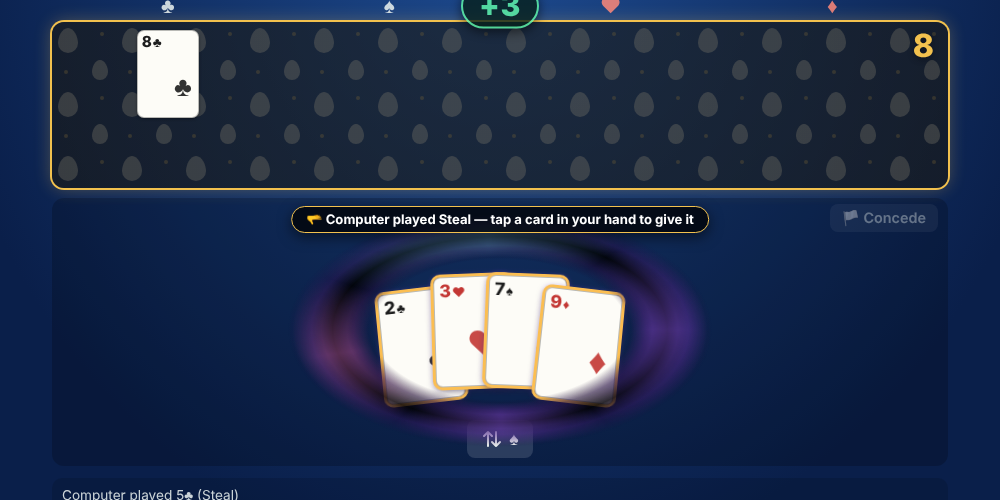
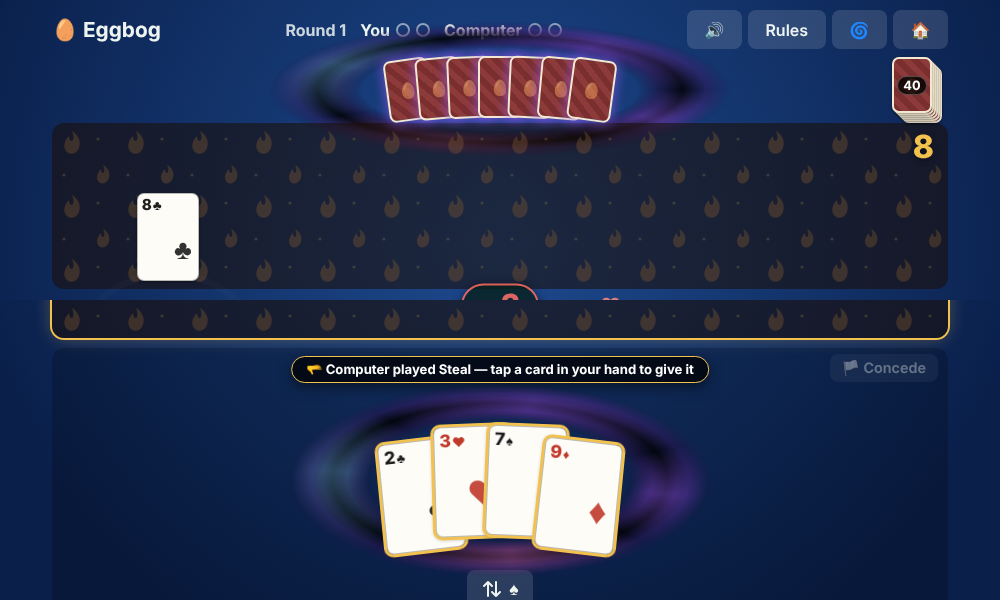
Card drop pitched in 3 steps by rank; Steal black hole behind the cards, quieter
- Drop the extra note; the landing thud itself is pitched: A-4 lower,
  5-7 as before, 8-K higher.
- The black hole now sits in the hand's panel under the cards, and its
  warp sound is half as loud.

Claude-Session: https://claude.ai/code/session_01RZQVcp2qjBMmu2NDpK7G8g

diff --git a/eggbog.html b/eggbog.html
@@ -557,16 +557,16 @@ button,summary,.clk{touch-action:manipulation}
 }
 
 /* Steal's black hole: a dark swirling ring around the hand that has to give a card (the cards stay visible in its eye) */
-#bhole{position:fixed;z-index:4;pointer-events:none;border-radius:50%}
+#bhole{position:absolute;z-index:0;pointer-events:none;border-radius:50%}   /* inside the hand's panel, under its cards */
 #bhole>i,#bhole b i{position:absolute;inset:0;border-radius:50%}
 #bhole b{position:absolute;left:0;top:50%;width:100%;aspect-ratio:1;translate:0 -50%;transform:scaleY(var(--sy,1))}   /* a circle squashed into the oval, so the swirl can spin inside it */
 #bhole>i{background:radial-gradient(closest-side,#0000 60%,#1a083099 69%,#000000d9 79%,#2a0d4a77 89%,#0000 100%)}
 #bhole b i{background:conic-gradient(from 0deg,#0000,#9b5cff66,#0000 18%,#ff7ad955 30%,#0000 42%,#7ac8ff55 58%,#0000 70%,#9b5cff66 84%,#0000);
   -webkit-mask:radial-gradient(closest-side,#0000 62%,#000 72%,#000 84%,#0000 98%);mask:radial-gradient(closest-side,#0000 62%,#000 72%,#000 84%,#0000 98%);animation:bhspin 2.2s linear infinite;filter:blur(1.5px)}
 @keyframes bhspin{to{transform:rotate(360deg)}}
-@keyframes warpwob{0%,100%{filter:none}50%{filter:drop-shadow(0 0 6px #9b5cffaa) hue-rotate(-12deg)}}
-.card.warping,.oc.warping{animation:warpwob 1.4s ease-in-out infinite}
-@media (prefers-reduced-motion:reduce){#bhole b i,.card.warping,.oc.warping{animation:none}}
+@keyframes warpwob{0%,100%{box-shadow:0 1px 3px #0006}50%{box-shadow:0 0 12px 2px #9b5cffaa}}
+body.bh-me #hand .card,body.bh-opp #oppHand .oc{animation:warpwob 1.4s ease-in-out infinite;z-index:5}   /* the cards sit in front of the black hole's ring */
+@media (prefers-reduced-motion:reduce){#bhole b i,body.bh-me #hand .card,body.bh-opp #oppHand .oc{animation:none}}
 </style>
 </head>
 <body>
@@ -2286,7 +2286,7 @@ function warpLoop(on){
   if(!on||!soundOn){if(warpSnd){const w=warpSnd;warpSnd=null;try{const t=audioCtx.currentTime;w.g.gain.cancelScheduledValues(t);w.g.gain.setValueAtTime(w.g.gain.value,t);w.g.gain.exponentialRampToValueAtTime(.0001,t+.35);w.nodes.forEach(n=>n.stop(t+.4));}catch(e){}}return;}
   if(warpSnd)return;
   try{audioCtx=audioCtx||new (window.AudioContext||window.webkitAudioContext)();if(audioCtx.state==='suspended')audioCtx.resume();
-    const t=audioCtx.currentTime,g=audioCtx.createGain();g.gain.setValueAtTime(.0001,t);g.gain.exponentialRampToValueAtTime(.09,t+.5);g.connect(audioCtx.destination);
+    const t=audioCtx.currentTime,g=audioCtx.createGain();g.gain.setValueAtTime(.0001,t);g.gain.exponentialRampToValueAtTime(.045,t+.5);g.connect(audioCtx.destination);
     // a low hum that bends up and down, plus a breathy whoosh that sweeps, both wobbling on slow LFOs
     const o=audioCtx.createOscillator(),o2=audioCtx.createOscillator(),lfo=audioCtx.createOscillator(),lg=audioCtx.createGain();
     o.type='sawtooth';o.frequency.value=70;o2.type='sine';o2.frequency.value=141;lfo.frequency.value=.9;lg.gain.value=22;
@@ -2303,19 +2303,23 @@ function warpLoop(on){
 function blackHole(sel){
   let b=$('bhole');
   if(!sel){if(b&&!b.dataset.out){b.dataset.out='1';b.animate([{opacity:1,transform:'scale(1)'},{opacity:0,transform:'scale(.4) rotate(120deg)'}],{duration:450,easing:'ease-in',fill:'forwards'}).onfinish=()=>b.remove();}
-    document.querySelectorAll('.warping').forEach(e=>e.classList.remove('warping'));warpLoop(false);return;}
+    document.body.classList.remove('bh-me','bh-opp');warpLoop(false);return;}
   const h=document.querySelector(sel);if(!h)return;
   // size it to the cards themselves (the hand row can be much wider than the cards in it)
   const cs=[...h.querySelectorAll('.card,.oc')].map(e=>e.getBoundingClientRect()).filter(x=>x.width);
   const r=cs.length?{left:Math.min(...cs.map(x=>x.left)),top:Math.min(...cs.map(x=>x.top)),right:Math.max(...cs.map(x=>x.right)),bottom:Math.max(...cs.map(x=>x.bottom))}:h.getBoundingClientRect();
   r.width=r.right-r.left;r.height=r.bottom-r.top;
-  const w=Math.max(r.width,120)*1.45+120,ht=Math.max(r.height,70)*1.5+70;   // the cards sit inside the clear eye
+  const w=Math.max(r.width,120)*1.45+120,ht=r.height*1.4+40;   // the cards sit inside the clear eye
   if(b&&b.dataset.out){b.remove();b=null;}
-  if(!b){b=document.createElement('div');b.id='bhole';b.innerHTML='<i></i><b><i></i></b>';document.body.appendChild(b);
+  // it lives inside the hand's own panel, under the cards, so it reads as part of the table
+  const host=sel==='#hand'?$('handwrap'):$('oppRow');if(!host)return;
+  if(b&&b.parentElement!==host){b.remove();b=null;}
+  if(!b){b=document.createElement('div');b.id='bhole';b.innerHTML='<i></i><b><i></i></b>';host.insertBefore(b,host.firstChild);
     if(b.animate&&!reduced())b.animate([{opacity:0,transform:'scale(.3)'},{opacity:1,transform:'scale(1)'}],{duration:500,easing:'cubic-bezier(.2,.9,.3,1.1)'});}
-  b.style.cssText=`left:${r.left+r.width/2-w/2}px;top:${r.top+r.height/2-ht/2}px;width:${w}px;height:${ht}px`;
+  const hr=host.getBoundingClientRect();
+  b.style.cssText=`left:${r.left-hr.left+r.width/2-w/2}px;top:${r.top-hr.top+r.height/2-ht/2}px;width:${w}px;height:${ht}px`;
   b.style.setProperty('--sy',ht/w);
-  h.querySelectorAll('.card,.oc').forEach(e=>e.classList.add('warping'));
+  document.body.classList.toggle('bh-me',sel==='#hand');document.body.classList.toggle('bh-opp',sel!=='#hand');   // a body class, since the hand is rebuilt on every render
   warpLoop(true);
 }
 function stealSync(v,OPP){
@@ -2597,30 +2601,23 @@ function flyBackToOpp(delay,fromEl){ // the opponent drew (or was given a card):
 let pendingDrop=null,audioCtx=null,soundOn=true;
 try{soundOn=localStorage.getItem('eggbog-sound')!=='off';}catch(e){}
 function syncSound(){const b=$('btnSound');b.textContent=soundOn?'🔊':'🔇';b.title=soundOn?'Sound on':'Sound off';}
-// val: the value of the card that landed (optional). Low cards land with a light, high thud, big ones deep and heavy,
-// and a soft note on a falling scale makes each value sound different
-function thud(val){
+// c: the card that landed (optional): the thud is pitched in three steps by rank: A-4 low, 5-7 as is, 8-K high
+function thud(c){
   if(!soundOn)return;
   try{
     audioCtx=audioCtx||new (window.AudioContext||window.webkitAudioContext)();
     if(audioCtx.state==='suspended')audioCtx.resume();
-    const t=audioCtx.currentTime,v=Math.max(1,Math.min(10,val||0));
-    const k=val?1.5-(v-1)/9*.85:1;   // 1.5x the pitch for a 1, down to .65x for a 10
+    const t=audioCtx.currentTime,i=c?RANKS.indexOf(c.r):-1;   // RANKS runs A,2,...,10,J,Q,K
+    const k=i<0?1:i<=3?.8:i<=6?1:1.25;
     const o=audioCtx.createOscillator(),g=audioCtx.createGain();
     o.type='sine';o.frequency.setValueAtTime(150*k,t);o.frequency.exponentialRampToValueAtTime(45*k,t+.13);
-    if(val){
-      const notes=[784,698.5,659.3,587.3,523.3,440,392,349.2,329.6,293.7],no=audioCtx.createOscillator(),ng2=audioCtx.createGain();
-      no.type='triangle';no.frequency.setValueAtTime(notes[v-1],t);no.frequency.exponentialRampToValueAtTime(notes[v-1]*.94,t+.18);
-      ng2.gain.setValueAtTime(.0001,t);ng2.gain.exponentialRampToValueAtTime(.09,t+.008);ng2.gain.exponentialRampToValueAtTime(.0001,t+.22);
-      no.connect(ng2);ng2.connect(audioCtx.destination);no.start(t);no.stop(t+.24);
-    }
     g.gain.setValueAtTime(.0001,t);g.gain.exponentialRampToValueAtTime(.45,t+.006);g.gain.exponentialRampToValueAtTime(.0001,t+.2);
     o.connect(g);g.connect(audioCtx.destination);o.start(t);o.stop(t+.22);
     // a short muffled slap for the card hitting the cloth
     const n=Math.floor(audioCtx.sampleRate*.05),buf=audioCtx.createBuffer(1,n,audioCtx.sampleRate),d=buf.getChannelData(0);
     for(let i=0;i<n;i++)d[i]=(Math.random()*2-1)*(1-i/n);
     const src=audioCtx.createBufferSource(),f=audioCtx.createBiquadFilter(),ng=audioCtx.createGain();
-    src.buffer=buf;f.type='lowpass';f.frequency.value=900;ng.gain.value=.22;
+    src.buffer=buf;f.type='lowpass';f.frequency.value=900*k;ng.gain.value=.22;
     src.connect(f);f.connect(ng);ng.connect(audioCtx.destination);src.start(t);
   }catch(e){}
 }
@@ -2648,7 +2645,7 @@ function dropAnim(el,fromX,fromY,delay){
   ],{duration:dur,delay:delay||0,fill:'backwards'});
   anim.onfinish=anim.oncancel=()=>{el.style.zIndex='';};
   setTimeout(()=>{
-    {const c=view&&view.me.field.concat(view.opp.field).find(x=>x.id===el.dataset.id);thud(c?cardVal(c):0);}
+    {const c=view&&view.me.field.concat(view.opp.field).find(x=>x.id===el.dataset.id);thud(c);}
     const dent=document.createElement('div');dent.className='thud-dent';
     dent.style.left=(cx-70)+'px';dent.style.top=(cy-70)+'px';document.body.appendChild(dent);
     dent.animate([{opacity:.9,transform:'scale(.6)'},{opacity:0,transform:'scale(1.25)'}],{duration:620,easing:'ease-out'}).onfinish=()=>dent.remove();
